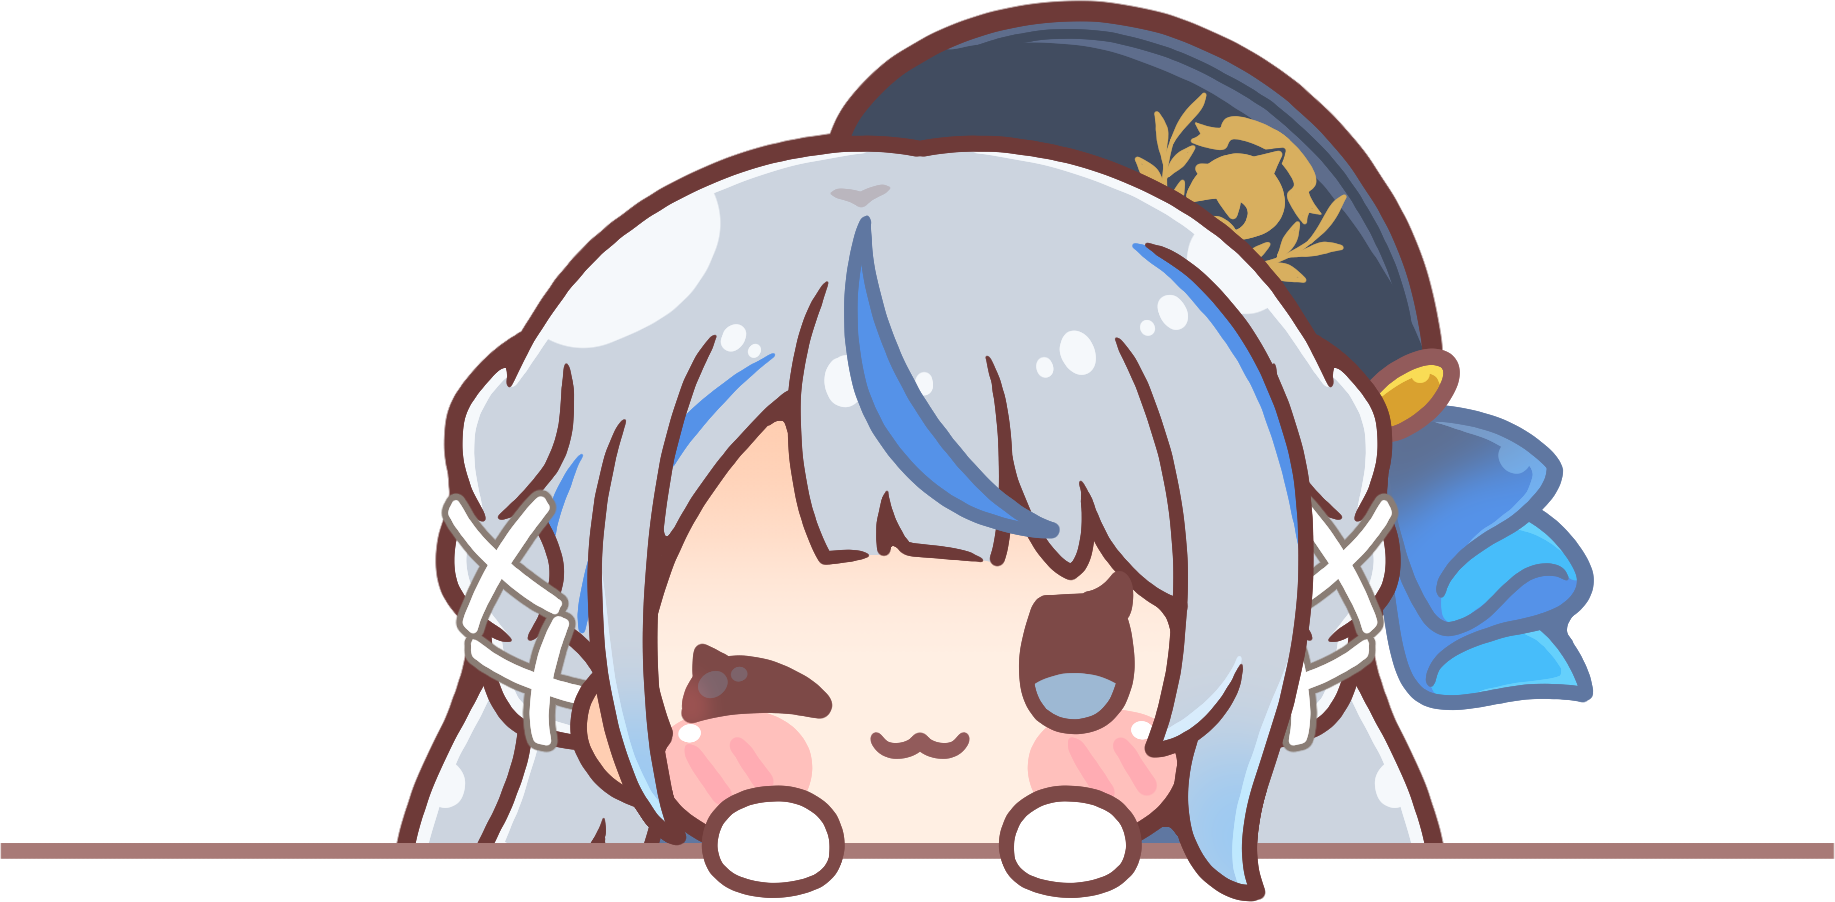
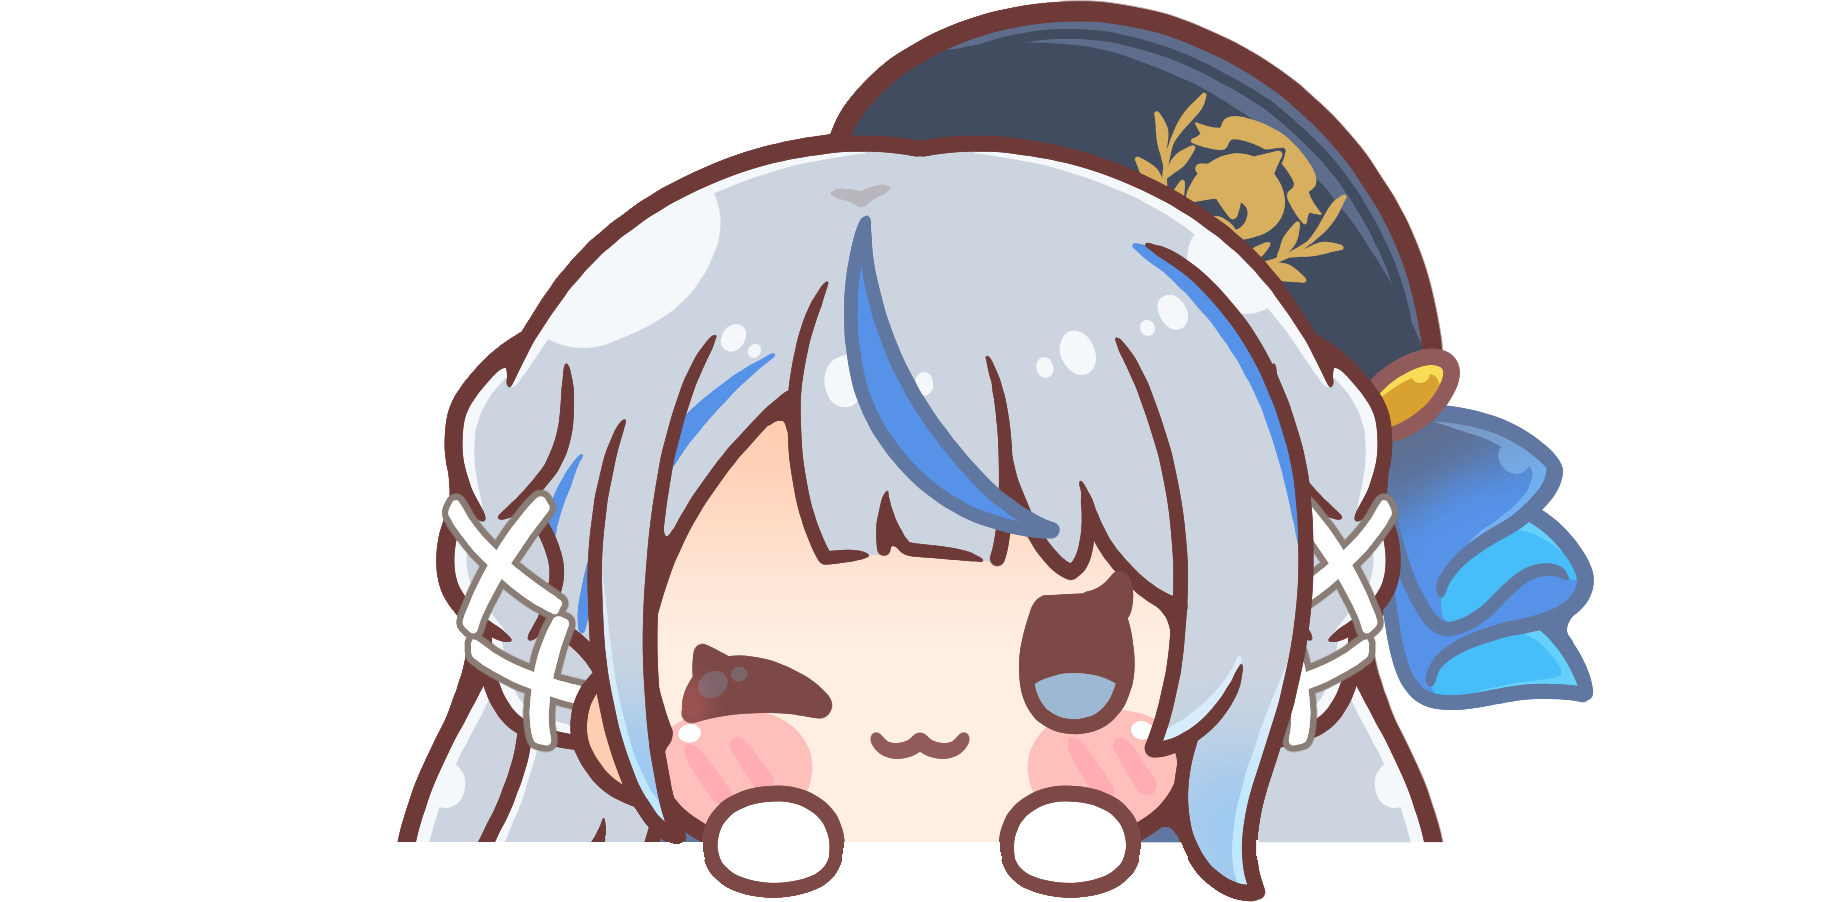
fix:이미지변경

diff --git a/v7/style.css b/v7/style.css
@@ -2209,9 +2209,9 @@ section {
 /* Chibi — カードの上端境界にぴったり合わせて配置 */
 .pad2-type-chibi {
     position: absolute;
-    top: 0;
+    top: 2px;
     right: clamp(8px, 2vw, 20px);
-    width: clamp(110px, 17vw, 170px);
+    width: clamp(115px, 16vw, 175px);
     height: auto;
     z-index: 10;
     filter: drop-shadow(0 4px 14px rgba(0, 0, 0, 0.28));
@@ -4134,10 +4134,10 @@ section {
         order: -1;
     }
     .pad2-type-chibi {
-        width: clamp(80px, 18vw, 120px);
+        width: clamp(155px, 34vw, 220px);
     }
     .pad2-type-wrapper {
-        padding-top: clamp(28px, 6vw, 40px);
+        padding-top: clamp(50px, 6vw, 65px);
     }
     .kb-product--rev .kb-product__vis {
         order: -1;
